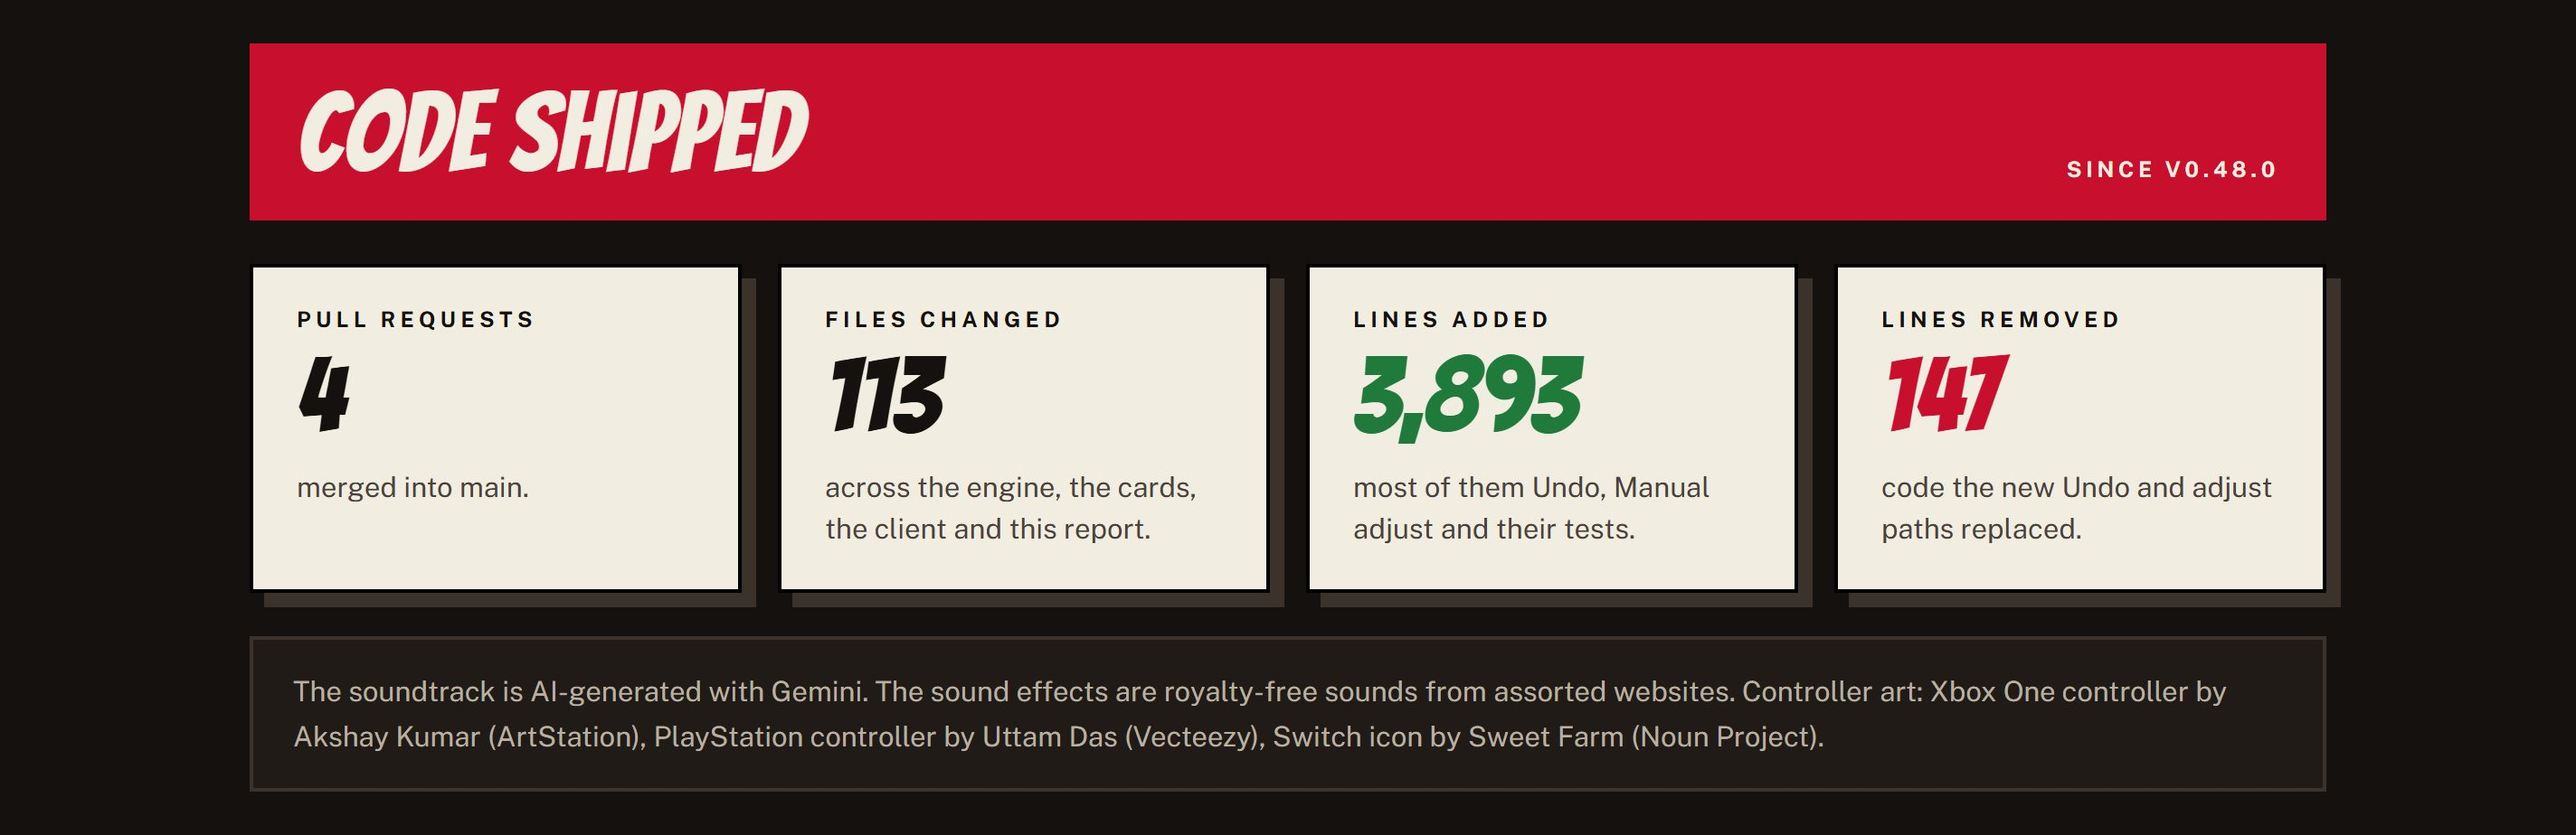
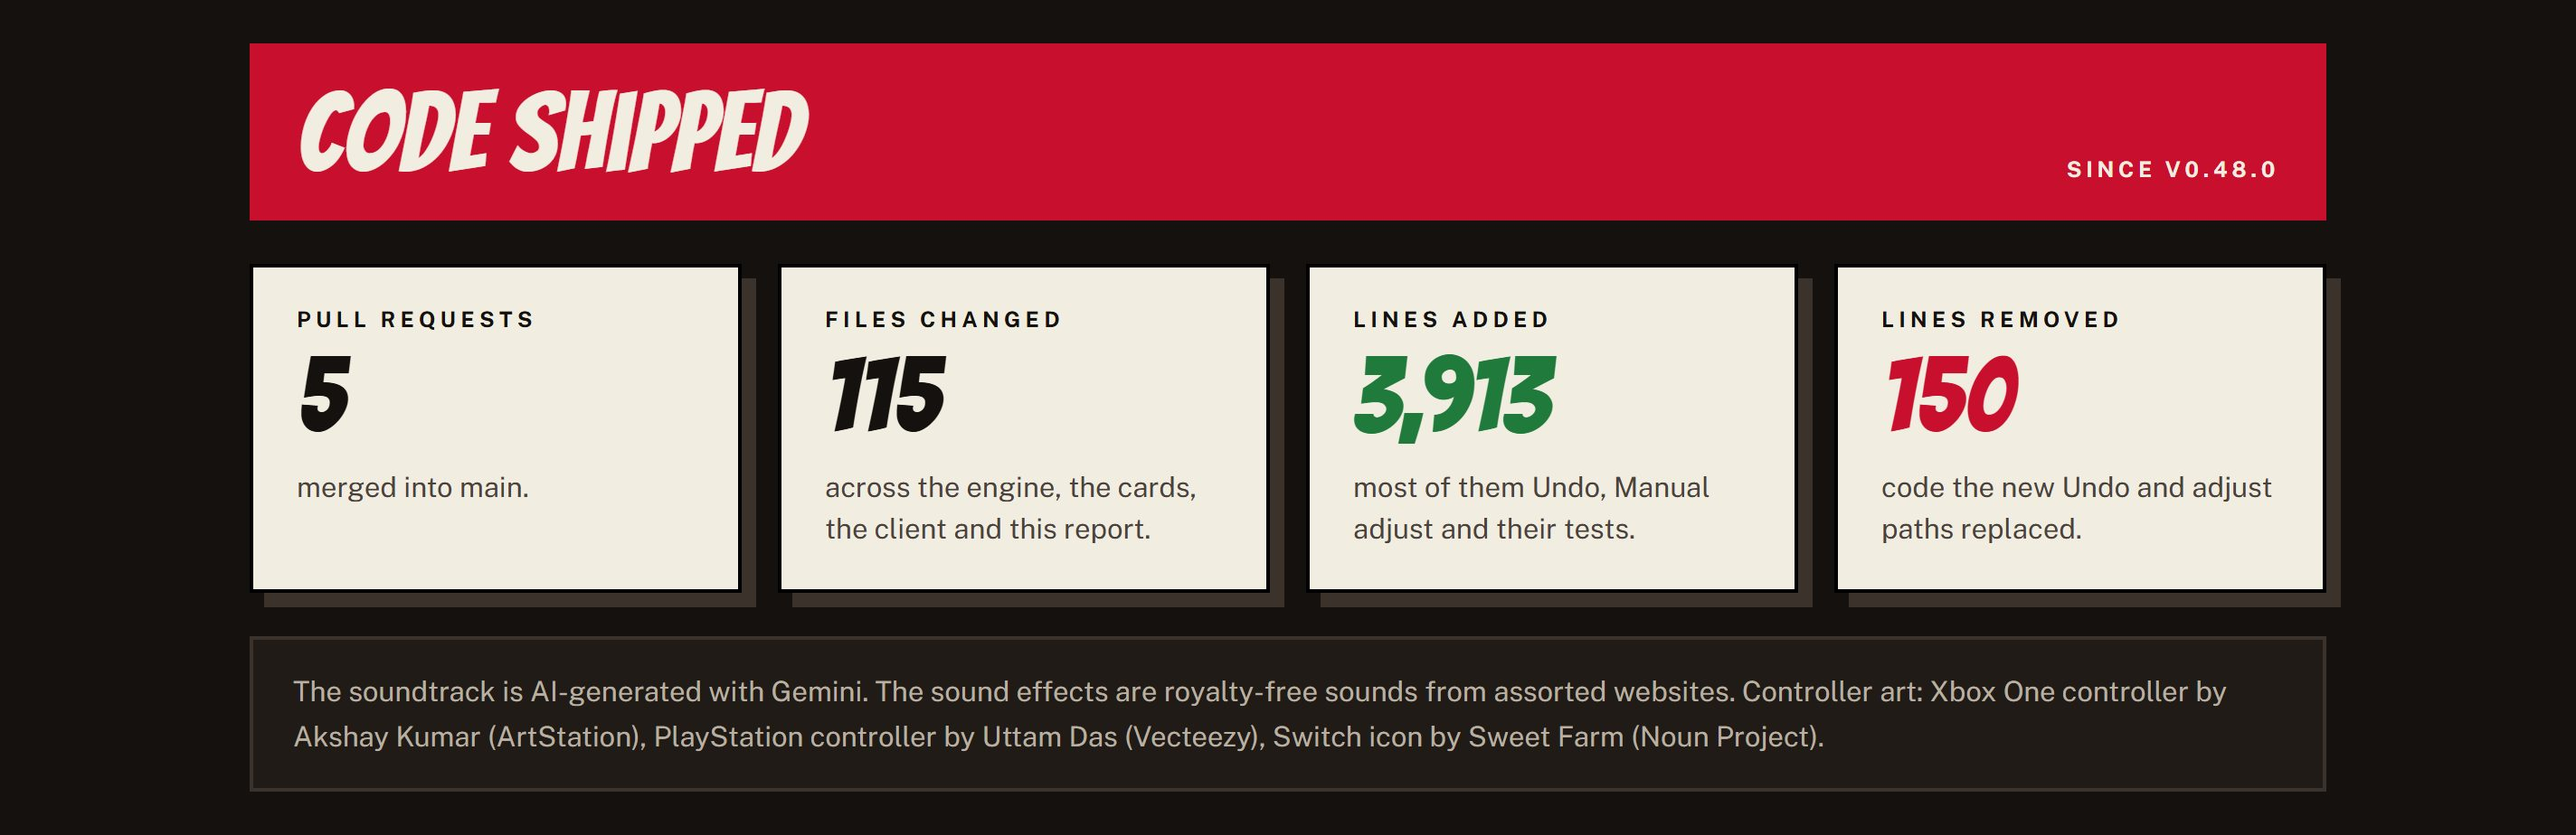
v0.49.0 report: add #803's changelog line and recount Code shipped

diff --git a/packages/client/public/releases/v0.49.0/index.html b/packages/client/public/releases/v0.49.0/index.html
@@ -850,22 +850,22 @@
       <section class="stats" aria-label="Code shipped since v0.48.0">
         <div class="tile">
           <h4>Pull requests</h4>
-          <div class="n">4</div>
+          <div class="n">5</div>
           <p>merged into main.</p>
         </div>
         <div class="tile">
           <h4>Files changed</h4>
-          <div class="n">113</div>
+          <div class="n">115</div>
           <p>across the engine, the cards, the client and this report.</p>
         </div>
         <div class="tile">
           <h4>Lines added</h4>
-          <div class="n c-green">3,893</div>
+          <div class="n c-green">3,913</div>
           <p>most of them Undo, Manual adjust and their tests.</p>
         </div>
         <div class="tile">
           <h4>Lines removed</h4>
-          <div class="n c-red">147</div>
+          <div class="n c-red">150</div>
           <p>code the new Undo and adjust paths replaced.</p>
         </div>
       </section>

diff --git a/docs/releases/es/v0.49.0.md b/docs/releases/es/v0.49.0.md
@@ -28,6 +28,7 @@ Un clic equivocado o un error ya no tienen por qué costarte la partida. Undo ah
 ### Fixed
 
 - Giant Strength de Ant-Man solo se ofrece después de cambiar a la forma de héroe Giant, y Ant-Man's Helmet solo ofrece la respuesta que corresponde a la nueva forma (#794).
+- Las pruebas e2e del historial de versiones eligen la versión y el informe más recientes en lugar de v0.40.0, así que una versión nueva ya no las rompe (#802).
 
 ### Engine
 

diff --git a/docs/screenshots/releases/v0.49.0/github-release-body.md b/docs/screenshots/releases/v0.49.0/github-release-body.md
@@ -34,6 +34,7 @@ A misclick or a bug no longer has to cost you the game. Undo now reaches past th
 ### Fixed
 
 - Ant-Man's Giant Strength is only offered after changing to Giant hero form, and Ant-Man's Helmet only offers the response that matches the new form (#794).
+- The release history e2e specs pick the newest release and report instead of v0.40.0, so a new release no longer breaks them (#802).
 
 ### Engine
 
